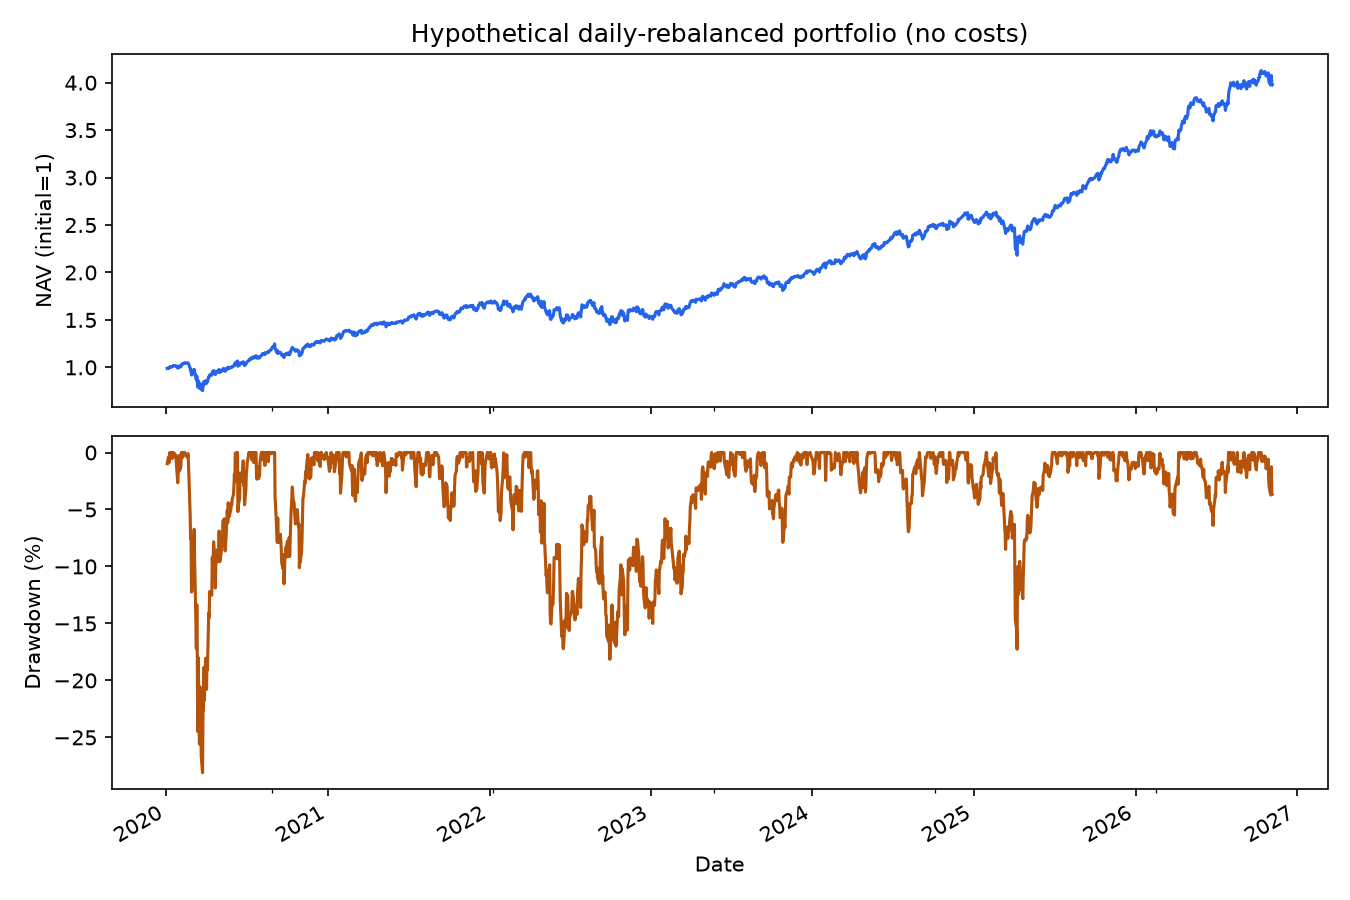
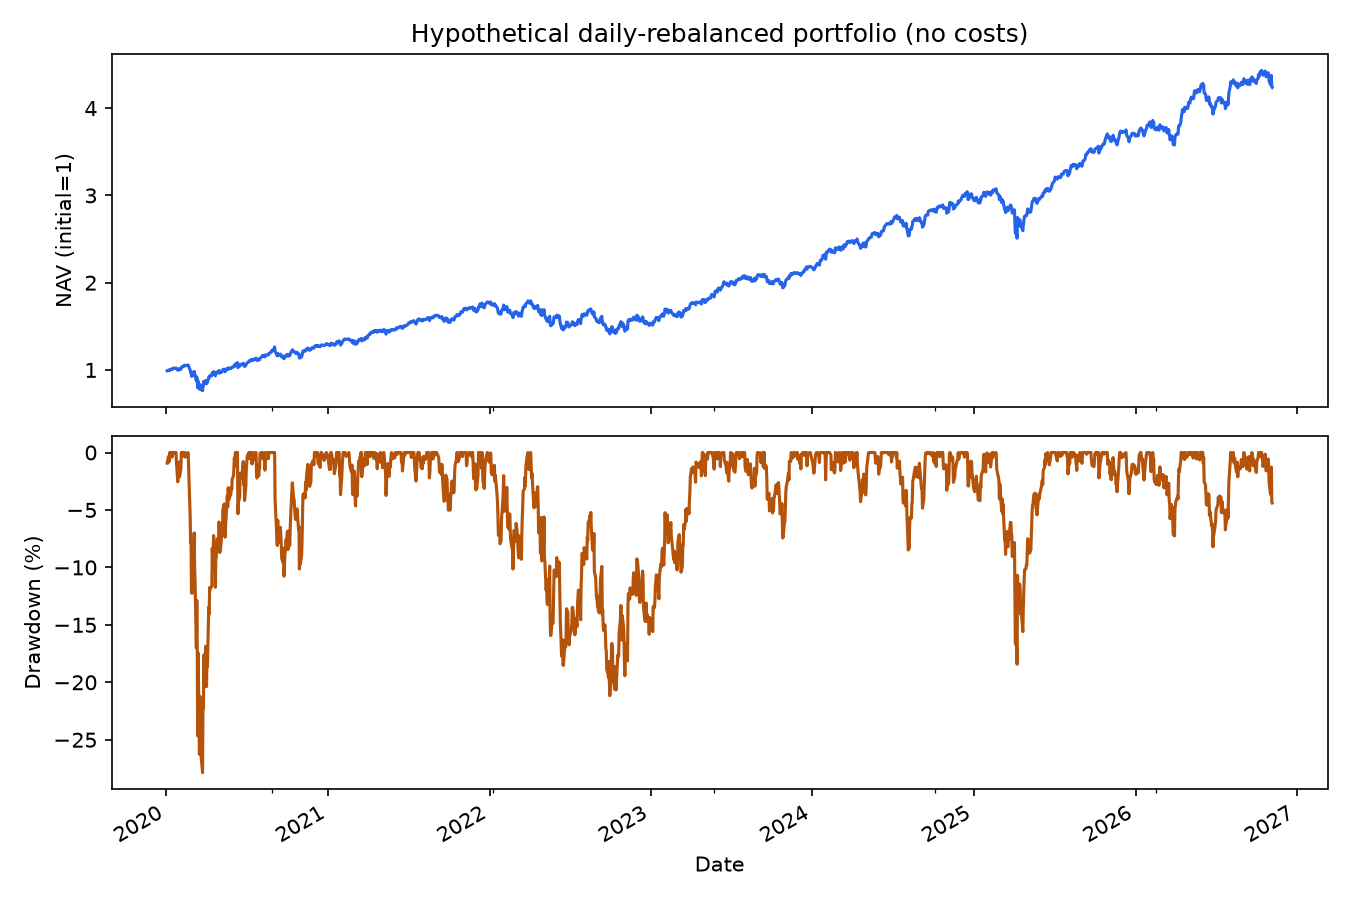
Expand to twenty holdings and restore lagged eight-style risk regression without sectors

diff --git a/risk/factor_model.py b/risk/factor_model.py
@@ -6,20 +6,65 @@ from factors import raw_factors
 import matplotlib.pyplot as plt
 
 
-def exposures(config):
+def standardized_exposures(raw, minimum=15):
+    """Daily Z-scores on complete held-stock observations; no extra universe."""
+    sections = []
+    for date, section in raw.groupby(level="date"):
+        x = section.droplevel("date").dropna()
+        if len(x) < minimum:
+            continue
+        scale = x.std(ddof=0)
+        if (scale <= 1e-12).any():
+            continue
+        z = (x-x.mean())/scale
+        z["date"] = date
+        sections.append(z.reset_index().set_index(["date","ticker"]))
+    if not sections:
+        raise ValueError("Need at least 15 stocks with all eight styles on valid dates")
+    return pd.concat(sections).sort_index()
+
+
+def fit_model(config):
+    """OLS: today's returns on previous-session eight exposures plus intercept."""
     panel = build_panel(config)
     raw = raw_factors(panel)
-    date = raw.index.get_level_values("date").max()
-    current = raw.xs(date).reindex(config["weights"])
+    z = standardized_exposures(raw)
+    calendar = panel.index.get_level_values("date").unique().sort_values()
+    pairs = zip(calendar[:-1], calendar[1:])
+    dates = set(z.index.get_level_values("date"))
+    coefficients, residuals = [], []
+    for previous, date in pairs:
+        if previous not in dates:
+            continue
+        X = z.xs(previous).assign(market=1.)
+        X = X[["market"]+list(z.columns)]
+        y = panel.xs(date)["return"].reindex(X.index)
+        valid = y.notna()
+        X, y = X.loc[valid], y.loc[valid]
+        if len(X) < 15:
+            continue
+        coef, _, rank, _ = np.linalg.lstsq(X.to_numpy(), y.to_numpy(), rcond=None)
+        if rank != X.shape[1]:
+            continue
+        coefficients.append(pd.Series(coef,index=X.columns,name=date))
+        residuals.append((y-X@coef).rename(date))
+    if len(coefficients) < 126:
+        raise ValueError("Need at least 126 valid lagged cross-sectional regression days")
+    date = panel.index.get_level_values("date").max()
+    if date not in dates:
+        raise ValueError("Latest date lacks enough complete style exposures")
+    current = z.xs(date).reindex(config["weights"])
     if not np.isfinite(current.to_numpy()).all():
-        raise ValueError("A held stock lacks a current factor; do not silently omit it")
-    if len(current) < 2:
-        raise ValueError("Need at least two holdings for relative exposures")
-    scale = current.std(ddof=0)
-    # A constant characteristic cannot distinguish these holdings: assign zero tilt.
-    z = (current-current.mean()).div(scale.replace(0, np.nan)).fillna(0)
-    tilt = (z.T @ pd.Series(config["weights"])).rename("portfolio_exposure")
-    return date, current, z, tilt
+        raise ValueError("A current holding lacks a style; it will not be dropped")
+    return {"date":date,"raw":raw.xs(date).reindex(config["weights"]),"z":current,
+            "factor_returns":pd.DataFrame(coefficients).sort_index(),
+            "residuals":pd.DataFrame(residuals).sort_index()}
+
+
+def exposures(config):
+    model = fit_model(config)
+    tilt = (model["z"].T @ pd.Series(config["weights"])).rename("portfolio_exposure")
+    return model["date"], model["raw"], model["z"], tilt
 
 
 if __name__ == "__main__":
@@ -30,7 +75,7 @@ if __name__ == "__main__":
     tilt.to_csv(output/"portfolio_exposures.csv")
     print(f"As of {date.date()}; reference = current holdings, not broad market")
     print(tilt.to_string(float_format=lambda x:f"{x:.4f}"))
-    fig, axes = plt.subplots(1,2,figsize=(12,5),gridspec_kw={"width_ratios":[2,1]})
+    fig, axes = plt.subplots(1,2,figsize=(13,8),gridspec_kw={"width_ratios":[2,1]})
     image = axes[0].imshow(z,aspect="auto",cmap="RdBu_r",vmin=-3,vmax=3)
     axes[0].set_xticks(range(len(z.columns)),z.columns,rotation=45,ha="right")
     axes[0].set_yticks(range(len(z)),z.index)

diff --git a/risk/volatility.py b/risk/volatility.py
@@ -1,7 +1,8 @@
-"""Historical portfolio volatility from held-stock sample covariance."""
+"""Eight-style-plus-intercept risk model and historical covariance comparison."""
 import numpy as np
 import pandas as pd
 from data import inputs, return_data
+from .factor_model import fit_model
 import matplotlib.pyplot as plt
 
 
@@ -15,16 +16,41 @@ def portfolio_volatility(returns, weights, window=252):
     return annual, covariance
 
 
+def model_volatility(model, weights, window=252):
+    """Sample factor covariance plus diagonal residual variance; no sector terms."""
+    f = model["factor_returns"].tail(window)
+    eps = model["residuals"].reindex(f.index)
+    F = f.cov()
+    d = eps.var(ddof=1).where(eps.count() >= 126)
+    X = model["z"].assign(market=1.).reindex(columns=F.columns)
+    w = pd.Series(weights).reindex(X.index)
+    d = d.reindex(X.index)
+    if d.isna().any() or not np.isfinite(F.to_numpy()).all():
+        raise ValueError("A holding has insufficient residual history")
+    b = X.T @ w
+    variance = float(b @ F @ b + (w.pow(2)*d).sum())
+    if variance <= 0:
+        raise ValueError("Nonpositive model variance")
+    return float(np.sqrt(252*variance)), len(f)
+
+
 if __name__ == "__main__":
     config, output = inputs()
+    model = fit_model(config)
+    model_annual, history_days = model_volatility(model,config["weights"],config["window"])
     returns, portfolio = return_data(config)
-    annual, covariance = portfolio_volatility(returns,config["weights"],config["window"])
-    covariance.to_csv(output/"stock_covariance.csv")
-    pd.DataFrame([{"as_of":str(portfolio.index[-1].date()),"historical_annual_volatility":annual,"window":config["window"]}]).to_csv(output/"volatility.csv",index=False)
-    print(f"Historical annualized volatility: {annual:.2%}")
+    historical, _ = portfolio_volatility(returns,config["weights"],config["window"])
+    pd.DataFrame([{"as_of":str(model["date"].date()),"model_annual_volatility":model_annual,
+                   "historical_annual_volatility":historical,"factor_history_days":history_days}]).to_csv(output/"volatility.csv",index=False)
+    print(f"Factor-model annualized volatility: {model_annual:.2%}")
+    print(f"Historical annualized volatility: {historical:.2%}")
     rolling = portfolio.rolling(60,min_periods=60).std(ddof=1)*np.sqrt(252)
-    ax = rolling.mul(100).plot(figsize=(9,4),color="#2563eb",title="60-session rolling realized volatility")
-    ax.set_ylabel("Annualized volatility (%)")
-    ax.figure.tight_layout()
-    ax.figure.savefig(output/"volatility.png",dpi=150)
-    plt.close(ax.figure)
+    fig, axes = plt.subplots(1,2,figsize=(12,4),gridspec_kw={"width_ratios":[2,1]})
+    rolling.mul(100).plot(ax=axes[0],color="#2563eb",title="60-session rolling realized volatility")
+    axes[0].set_ylabel("Annualized volatility (%)")
+    axes[1].bar(["Factor model","Historical"],[model_annual*100,historical*100],color=["#2563eb","#93c5fd"])
+    axes[1].set_ylabel("Annualized volatility (%)")
+    axes[1].set_title(f"Current estimates | {model['date'].date()}")
+    fig.tight_layout()
+    fig.savefig(output/"volatility.png",dpi=150)
+    plt.close(fig)
